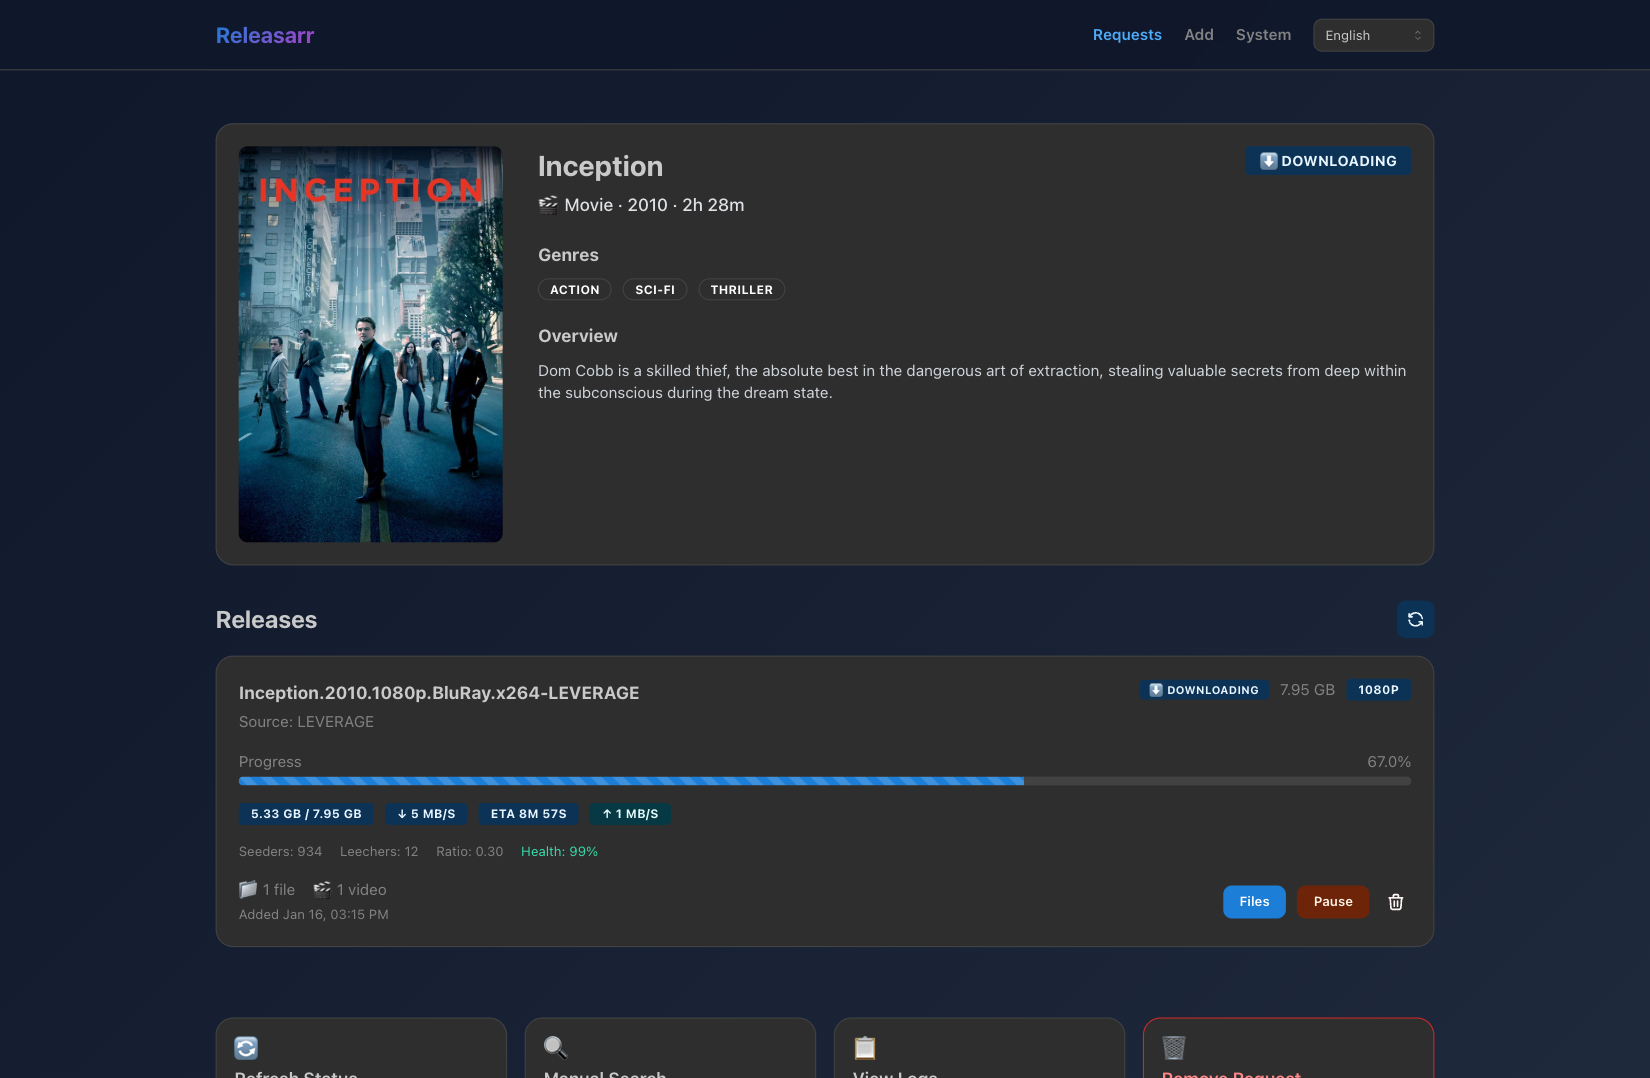
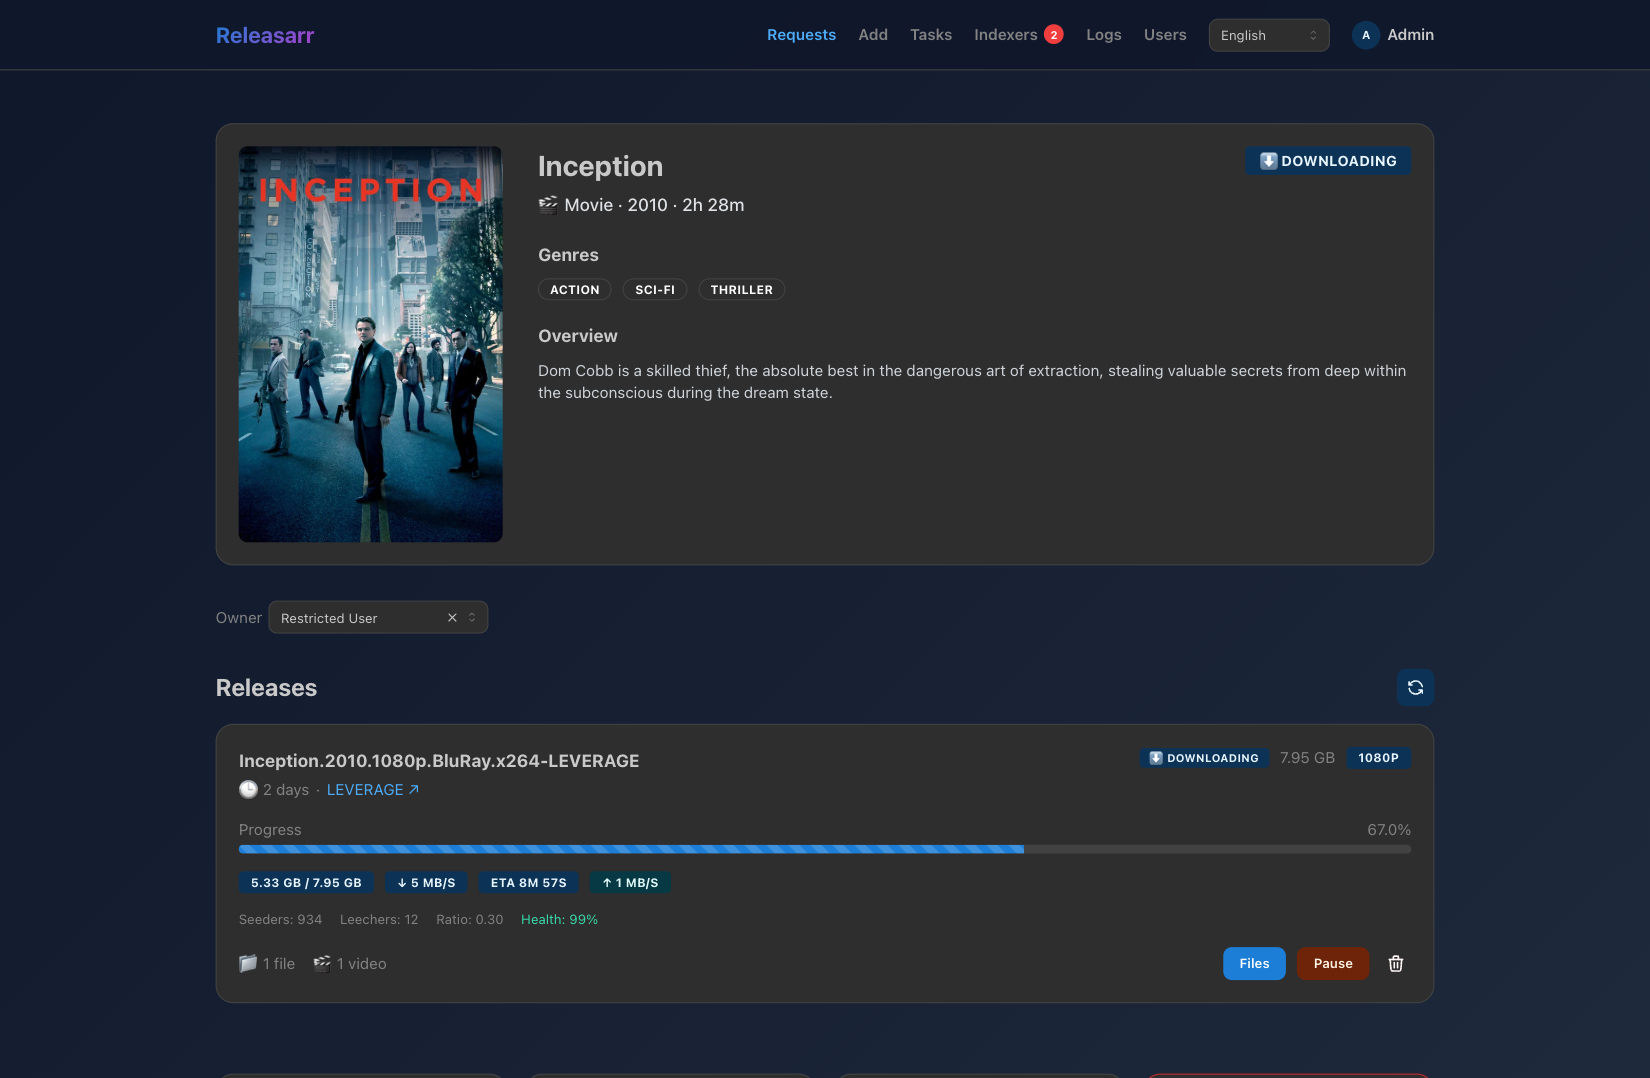
feat: update README and screenshot documentation; add new indexers and users screenshots

diff --git a/services/frontend/scripts/screenshots/harness.ts b/services/frontend/scripts/screenshots/harness.ts
@@ -11,6 +11,7 @@ import {
 
 const APP_URL = 'http://localhost:3000';
 const MOCK_HEALTH_URL = 'http://localhost:8001/__health';
+const MOCK_API_URL = 'http://localhost:8001/api';
 const SERVER_START_TIMEOUT_MS = 90_000;
 
 /**
@@ -176,6 +177,26 @@ export async function createContext(
  */
 export async function applyStillness(page: Page): Promise<void> {
   await page.addStyleTag({ content: STILLNESS_CSS });
+}
+
+/**
+ * Signs the context in against the mock API before it opens a page.
+ *
+ * The app keeps its access token in memory, so a brand-new context has no
+ * session until it bootstraps one off the refresh cookie. Logging in through
+ * the API puts that cookie in the context's jar, exactly as a returning
+ * browser has it; driving the login form instead would make every shot start
+ * with a login, and leave the page the form navigated away from behind.
+ */
+export async function signIn(context: BrowserContext): Promise<void> {
+  const url = `${MOCK_API_URL}/auth/login`;
+  const response = await context.request.post(url, {
+    data: { username: 'admin', password: 'admin', remember_me: false },
+  });
+
+  if (!response.ok()) {
+    throw new Error(`Mock sign-in failed at ${url}: ${response.status()} ${await response.text()}`);
+  }
 }
 
 export interface SettleOptions {

diff --git a/services/frontend/scripts/screenshots/shots.ts b/services/frontend/scripts/screenshots/shots.ts
@@ -91,6 +91,20 @@ export const shots: Shot[] = [
       await settle(page, { allowSpinners: true });
     },
   },
+  {
+    name: 'system-indexers',
+    description: 'Indexers page with each one’s health and the attention banner',
+    route: '/system/indexers',
+    // Both system pages are short, and the default viewport would be mostly
+    // empty background below them.
+    viewport: { width: 1500, height: 720 },
+  },
+  {
+    name: 'system-users',
+    description: 'Users page with the accounts and the service API key',
+    route: '/system/users',
+    viewport: { width: 1500, height: 640 },
+  },
 ];
 
 /** The search that has to happen before the season picker can be opened. */

diff --git a/services/frontend/scripts/screenshots/capture.ts b/services/frontend/scripts/screenshots/capture.ts
@@ -18,6 +18,7 @@ import {
   createContext,
   launchBrowser,
   settle,
+  signIn,
   startServers,
   type Servers,
 } from './harness';
@@ -94,6 +95,7 @@ async function capture(browser: Browser, baseUrl: string, outDir: string, shot: 
 
   try {
     const page = await context.newPage();
+    await signIn(context);
     await page.goto(baseUrl + shot.route, { waitUntil: 'networkidle' });
     await applyStillness(page);
     await settle(page);

diff --git a/README.md b/README.md
@@ -35,7 +35,7 @@ Your library managers stay the source of truth; Releasarr just handles the awkwa
 ## Screenshots
 
 The screenshots below come from the frontend's mock API, so the data is fictional but every
-screen is the real UI.
+screen is the real UI. `npm run screenshots` in `services/frontend/` retakes them.
 
 ### Following a download
 
@@ -73,18 +73,38 @@ download-client-triggered runs land in a queue you can expand for per-job output
 
 ![The system tasks page, listing five scheduled tasks and a queue of running jobs](docs/screenshots/tasks.png)
 
+### Indexer health
+
+Prowlarr's indexers are listed with their health, protocol, and when each one last failed, and
+can be tested from the UI. A search fans out one request per indexer, so one that is down costs
+you its results rather than the whole search — and says so.
+
+![The indexers page, listing four indexers with healthy, blocked, degraded, and disabled health badges](docs/screenshots/system-indexers.png)
+
+### Accounts and access
+
+A sign-in per person. Every request belongs to whoever added it, or to nobody when a sync
+created it, and a user reaches only what their permissions and root-folder allow-list cover.
+Admins manage the accounts here, next to the service API key that integrations authenticate
+with.
+
+![The users page, listing an admin and a restricted account above the service API key](docs/screenshots/system-users.png)
+
 ## What it does
 
 | Feature | What it means |
 | --- | --- |
 | **Requests from your library** | Sonarr's missing seasons and Radarr's missing movies are pulled in automatically as requests, enriched with TVDB and TMDB metadata. |
 | **Indexer search on demand** | Search Prowlarr per request, or paste a magnet link or upload a `.torrent` yourself. |
+| **Indexer health** | Each indexer's health, protocol, priority, and last failure, testable from the UI. A search fans out per indexer, so one that is down costs you its results, not the search. |
 | **Download management** | Add, pause, resume, and remove torrents in qBittorrent without leaving the request. |
 | **Explicit file mapping** | Say which file is which episode. Suggestions and bulk tools cover the easy cases; you stay in control of the rest. |
 | **Import back to the \*arrs** | Finished downloads are handed to Sonarr and Radarr's manual import with absolute paths, and requests close once those apps confirm they hold the media in full. |
 | **Repack detection** | Releases the indexer has since replaced are re-downloaded automatically. |
+| **Request warnings** | A regrab whose indexer has since gone, or two files claiming the same episode, are surfaced on the request rather than left to be noticed later. |
 | **Bilingual UI and metadata** | English and Russian, for both the interface and the media titles it searches by. |
 | **Operational visibility** | Structured logs, filterable by request or by task, readable from the UI. |
+| **Accounts and access** | One sign-in per person, with requests owned by whoever added them. Permissions and a root-folder allow-list decide what a user reaches; admins manage both accounts and the service API key. |
 
 ## How a request flows through the system
 
@@ -132,7 +152,7 @@ git clone https://github.com/zxibizz/releasarr.git
 cd releasarr
 ```
 
-Copy [`.env.example`](.env.example) to `.env` next to `docker-compose.yaml` and fill it in:
+Copy [`.env.example`](.env.example) to `.env` in the repository root and fill it in:
 
 ```bash
 cp .env.example .env
@@ -157,17 +177,29 @@ RELEASARR_TVDB_API_KEY=...
 RELEASARR_TMDB_API_KEY=...
 ```
 
-Then bring it up:
+Then build and run it:
 
 ```bash
-docker compose up -d --build
+# The mount below needs the file to exist first, or Docker creates a directory
+# in its place and SQLite cannot open it.
+touch services/backend/releasarr.db
+
+docker build -f Dockerfile.all-in-one -t releasarr .
+docker run -d --name releasarr --restart always -p 8050:80 \
+  --env-file .env \
+  -v "$PWD/services/backend/releasarr.db:/app/releasarr.db" \
+  -v "$PWD/services/backend/.logs:/app/.logs" \
+  releasarr
 ```
+
+Add a `-v` line for every download and media directory Releasarr has to see, at the same
+absolute path Sonarr and Radarr use — the first note below is why.
 
 Releasarr is on **http://localhost:8050**. One container runs the whole thing: nginx serves the
 frontend and proxies the API under `/api/`, Alembic migrates on boot, and the scheduler worker
 runs alongside uvicorn. All three are supervised by s6-overlay, so a process that dies is
 restarted on its own, and a failed migration stops the container instead of leaving it half up.
-Every line in `docker compose logs` is tagged with the service that wrote it — `[api]`,
+Every line in `docker logs releasarr` is tagged with the service that wrote it — `[api]`,
 `[scheduler]`, or `[nginx]`.
 
 A few things worth knowing before you point it at real data:
@@ -272,7 +304,7 @@ one, so the first profile they report is used unless you pick one.
 
 By default a finished torrent waits up to five minutes for the next export run. Point
 qBittorrent at Releasarr instead and it gets imported immediately. Grab the service API key
-first (an admin, from **System → Users** — it always exists, generated automatically), then in
+first (an admin, from **Users** — it always exists, generated automatically), then in
 **Options → Downloads → Run external program on torrent finished**:
 
 ```bash
@@ -285,8 +317,7 @@ curl -fsS -X POST -H "X-API-Key: your-service-key" http://releasarr/api/tasks/sy
 
 `sync_downloads` queues only `release_sync` and `export` — a full sync on every torrent would
 hammer Sonarr, Radarr, the metadata providers, and your indexers for no reason. Runs arriving
-this way show up in the queue on **System → Tasks**, tagged with the download client as their
-trigger.
+this way show up in the queue on **Tasks**, tagged with the download client as their trigger.
 
 ## Development
 
@@ -303,7 +334,7 @@ npm run dev:mock
 
 That starts an Express mock of the OpenAPI contract on port 8001 and the Vite dev server on
 port 3000. Open http://localhost:3000. All the screenshots in this README were taken against
-it.
+it, and the mock's seeded accounts are `admin`/`admin` and `user`/`user`.
 
 | Script | Purpose |
 | --- | --- |
@@ -312,6 +343,7 @@ it.
 | `npm test` | Vitest suite |
 | `npm run lint` | ESLint |
 | `npm run codegen` | Regenerate API types from `openapi.yaml` |
+| `npm run screenshots` | Recapture the images above — see `services/frontend/docs/screenshots.md` |
 
 ### Backend
 
@@ -390,9 +422,10 @@ Prowlarr or qBittorrent degrades to an in-memory stub rather than a crash. And t
 lives outside the ASGI app entirely: the API only ever writes rows to `sync_jobs`, and the
 worker claims them within a few seconds.
 
-The frontend is feature-sliced — `requests`, `releases`, `discover`, `tasks`, `logs` — with each
-feature owning its API calls and its React Query keys, and a single `apiRequest` wrapper as the
-only place HTTP happens. Route loaders warm the query cache so pages have data on first paint.
+The frontend is feature-sliced — `auth`, `requests`, `releases`, `discover`, `tasks`,
+`indexers`, `logs`, `users` — with each feature owning its API calls and its React Query keys,
+and a single `apiRequest` wrapper as the only place HTTP happens. Route loaders warm the query
+cache so pages have data on first paint.
 
 ### Stack
 

diff --git a/services/frontend/docs/screenshots.md b/services/frontend/docs/screenshots.md
@@ -33,7 +33,8 @@ Only `shots.ts` should need editing to add an image.
 
 `name` is the output filename. The page is navigated and settled before `prepare` runs, and
 screenshotted after it returns. Add `viewport` where the default 1500×980 frames badly — the
-season picker is short enough that the full height would be mostly empty background.
+season picker and the two system pages are short enough that the full height would be mostly
+empty background.
 
 Each shot gets a **fresh browser context**, so viewport overrides and anything a `prepare`
 leaves behind cannot leak into the next image. It also means a shot may not depend on an
@@ -43,6 +44,17 @@ work on its own.
 
 Every shot the tool defines is a shot the README embeds. Capturing an image nothing links to
 just puts an unexplained binary in git.
+
+## Sessions
+
+Every page below `/` needs a session, so a fresh context is signed in before it opens one.
+`signIn()` posts the mock's `admin` account to `/api/auth/login`, which leaves the refresh cookie
+in that context's jar; the app keeps its access token in memory and bootstraps it from the cookie
+on load, so the cookie is the whole of what a returning browser has.
+
+The alternative — driving the login form per shot — would put a screen in front of every capture
+and leave the page it navigated away from behind. It would also eat the tasks shot's four-second
+window, since nothing between that click and the capture may block.
 
 ## Waiting
 

diff --git a/services/backend/README.md b/services/backend/README.md
@@ -39,8 +39,8 @@ token and sets an httpOnly refresh cookie; `POST /auth/refresh` rotates it. Ever
 depends on `require_user` / `require_admin` / `require_permission(...)`
 (`src/api/dependencies/auth.py`), which resolve either credential to a `Principal`. For
 script/bot access, there is a single service API key, generated automatically and always
-present (as in Sonarr): fetch its metadata or rotate it under `/service-key`, or from **System →
-Users** in the UI, and send it as `X-API-Key` instead of signing in — it always authenticates as
+present (as in Sonarr): fetch its metadata or rotate it under `/service-key`, or from **Users**
+in the UI, and send it as `X-API-Key` instead of signing in — it always authenticates as
 a full admin. See
 [`../../docs/architecture.md`](../../docs/architecture.md#authentication-and-authorization) and
 [`docs/backend.md`](../../docs/backend.md#auth-and-permissions) for the full picture.
